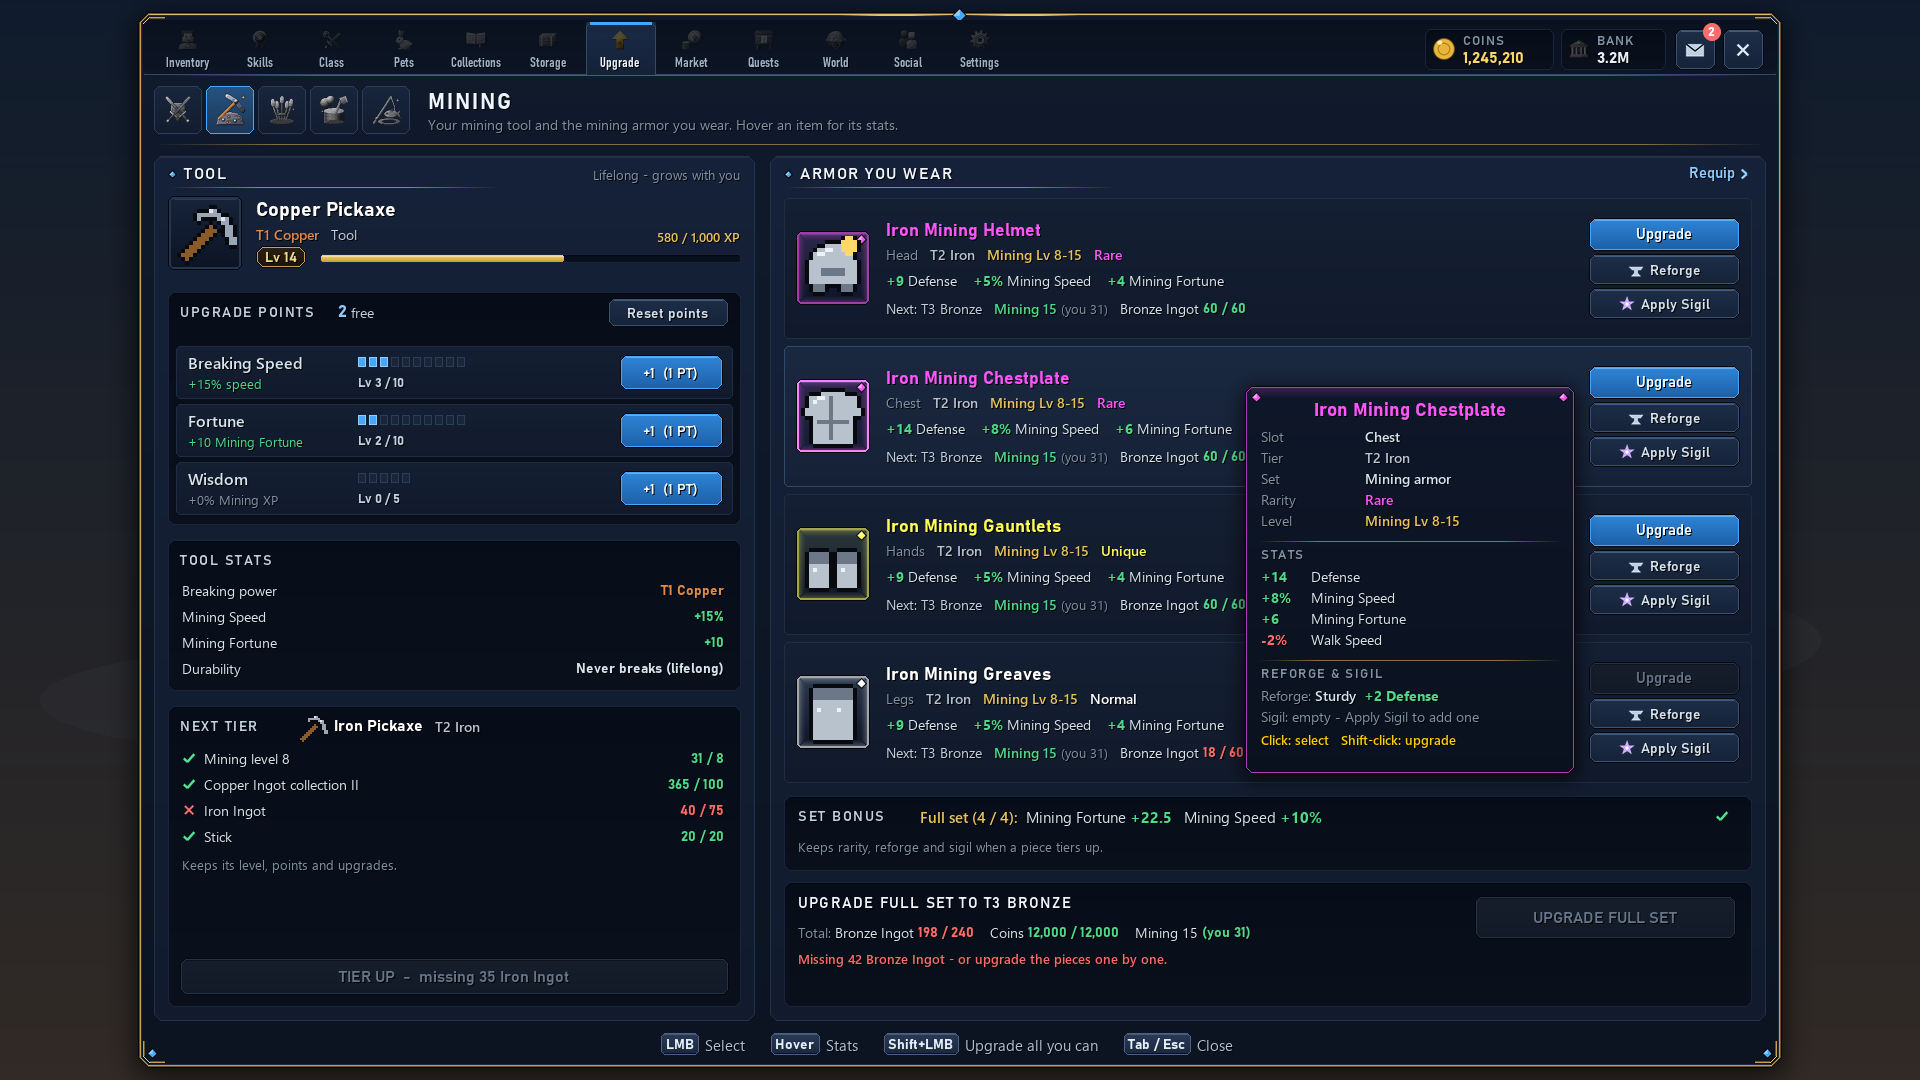
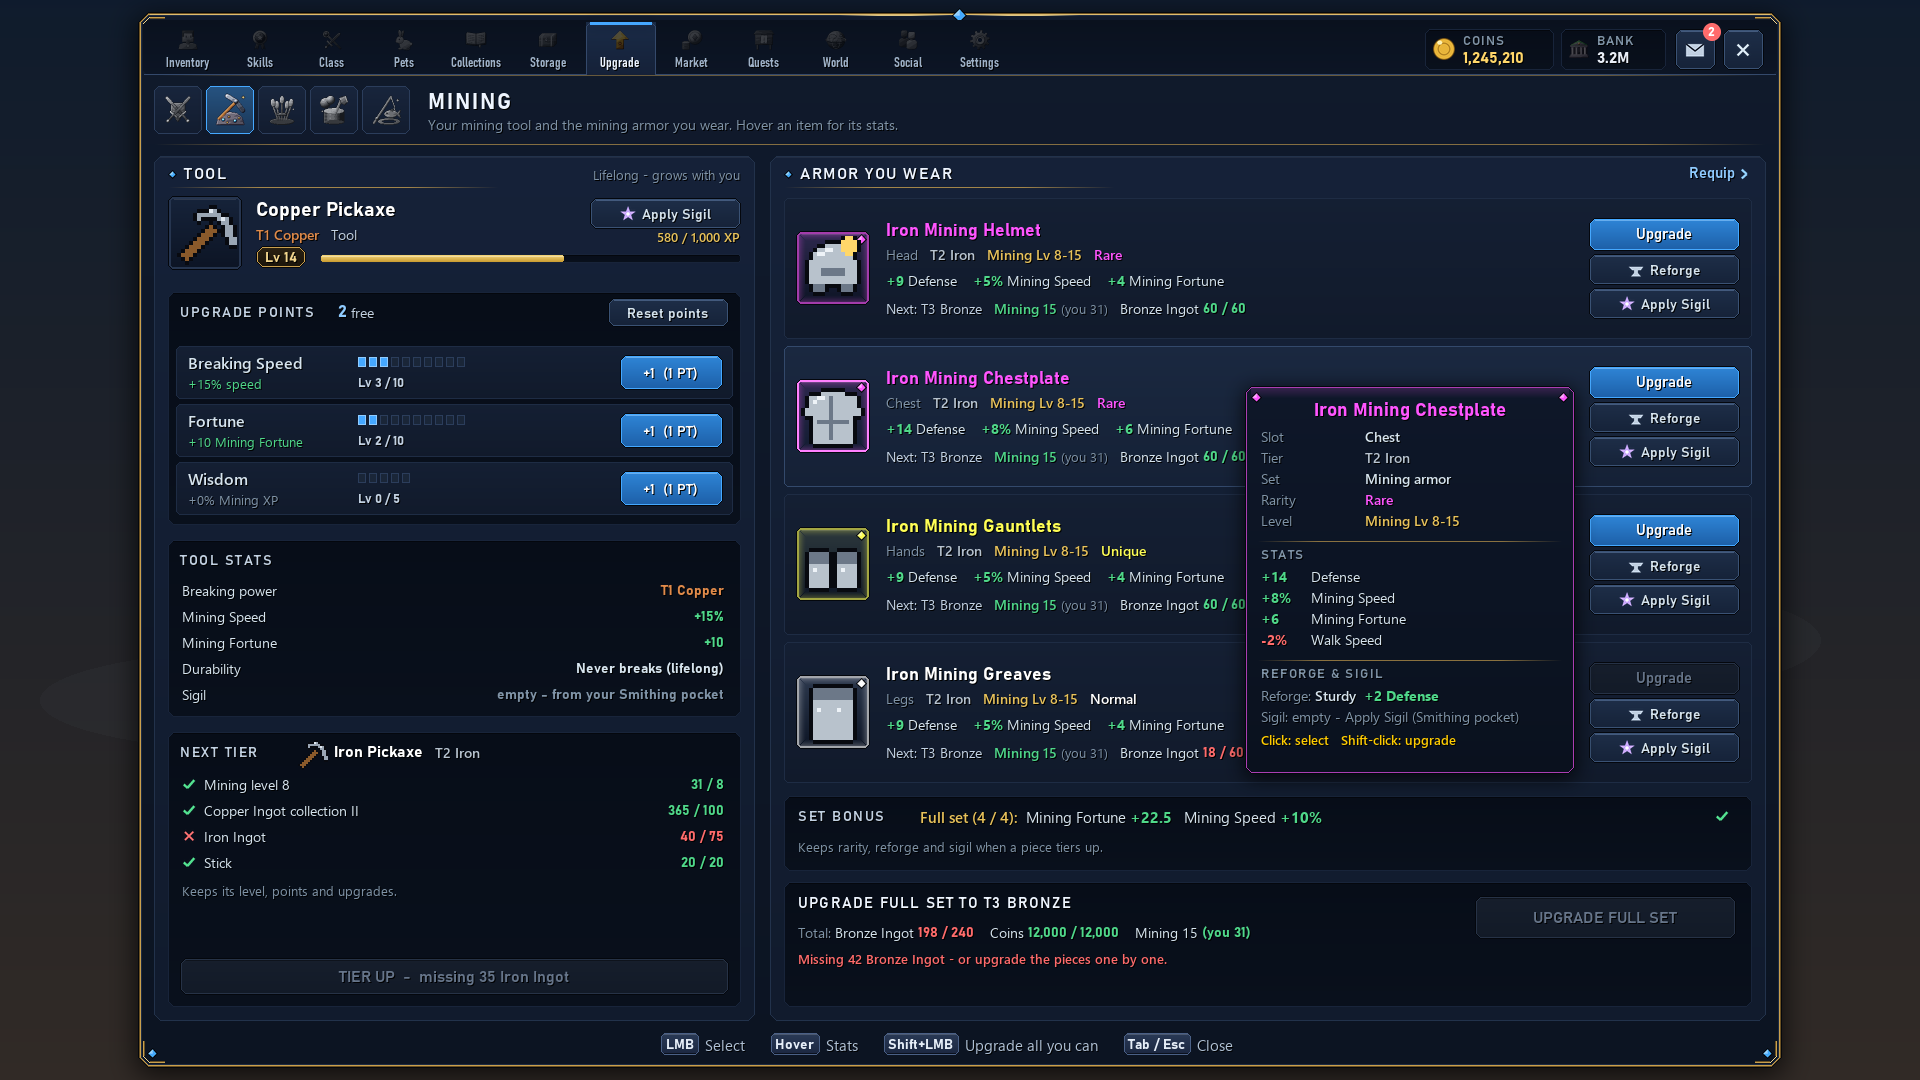
art: v5 Furnace fuel slot + search, Apply Sigil on the tool; egg upgrade-by-rarity recorded

Changed region(s): [[0.0938, 0.6417, 0.4062, 0.825], [0.3125, 0.1833, 0.375, 0.2139], [0.75, 0.6417, 0.7812, 0.6722]]

diff --git a/research/ui-theme-art/make_ui_theme.py b/research/ui-theme-art/make_ui_theme.py
@@ -1954,6 +1954,9 @@ def pocket_v3(im, X0, X1, Y0, Y1):
 BENCH4 = BENCH3 + BENCH4_EXTRA   # v4: + Furnace / Cooking / Tanning (Skyy 11-14 "yes")
 
 
+V5 = True   # v5 (Skyy 11-14): Furnace fuel slot + search above Copper; Apply Sigil on the tool. False = the kept v4 pictures.
+
+
 def furnace_v4(im, X0, X1, Y0, Y1):
     """The Furnace tab of inventory crafting in OUR pack's style (SkyySacks furnace: fuel, timed queue, Furnace Charm)."""
     craft_v3(im, X0, X1, Y0, Y1, True, 6)
@@ -1963,7 +1966,8 @@ def furnace_v4(im, X0, X1, Y0, Y1):
     put(im, g_diamond(9, A["base"], A["hi"]), X0 + 14, hy - 4)
     text(im, (X0 + 30, hy), "FURNACE", font("head", 17), PAL["title"], "lm", track=1.5)
     text(im, (X0 + 30 + tw("FURNACE", font("head", 17), 1.5) + 10, hy + 1), "ingots first, by tier", font("body", 13), PAL["dim"], "lm")
-    search_box(im, (X1 - 300, hy - 15, X1 - 12, hy + 15), "Search...")
+    if not V5:
+        search_box(im, (X1 - 300, hy - 15, X1 - 12, hy + 15), "Search...")
     taper_line(im, X0 + 12, X1 - 12, hy + 22, PAL["gold"], 150, 0.8)
     cy0, cy1 = hy + 32, Y1 - 12
     # --- list of smeltables
@@ -1972,6 +1976,9 @@ def furnace_v4(im, X0, X1, Y0, Y1):
     items = [("Copper Ingot", "T1", "#d0803c", "1,792"), ("Iron Ingot", "T2", "#b8c2cc", "1,262"), ("Bronze Ingot", "T3", "#c99a4a", "0"),
              ("Thorium Ingot", "T4", "#7fc46a", "86"), ("Charcoal", "", "", "640"), ("Glass", "", "", "512")]
     y = cy0 + 6
+    if V5:   # Skyy 11-14: "move the search to the top of the metal row, above coper"
+        search_box(im, (lx0 + 6, y, lx1 - 6, y + 30), "Search...")
+        y += 38
     for i, (nm, t_, c_, have) in enumerate(items):
         row(im, (lx0 + 6, y, lx1 - 6, y + 34), "selected" if i == 1 else "normal")
         pic = "px:ingot:" + c_ if c_ else ("px:coal" if nm == "Charcoal" else "px:planks")
@@ -1993,11 +2000,20 @@ def furnace_v4(im, X0, X1, Y0, Y1):
     text(im, (rx0 + 48, cy0 + 90), "Iron Ore", font("body", 14), PAL["row"], "lm")
     text(im, (rx1 - 10, cy0 + 90), "1,262 / 688", font("headb", 14), PAL["green"], "rm")
     text(im, (rx0 + 48, cy0 + 108), "bag 12 + Void 1,250", font("body", 13), PAL["dim"], "lm")
-    paste_icon(im, "px:coal", rx0 + 10, cy0 + 124, 32)
-    text(im, (rx0 + 48, cy0 + 132), "Fuel: Charcoal", font("body", 14), PAL["row"], "lm")
-    text(im, (rx1 - 10, cy0 + 132), "640 / 86", font("headb", 14), PAL["green"], "rm")
-    text(im, (rx0 + 48, cy0 + 150), "1 per 8 smelts  -  Change", font("body", 13), PAL["dim"], "lm")
-    ay = cy0 + 170
+    if V5:   # Skyy 11-14: "i donty see how you add the fuel" -> a real FUEL slot: drag fuel in (or click it to pick from bag + Void)
+        text(im, (rx0 + 10, cy0 + 124), "FUEL", font("head", 13), PAL["dim"], "lm", track=1.5)
+        text(im, (rx1 - 10, cy0 + 124), "needs 86", font("headb", 13), PAL["green"], "rm")
+        slot(im, rx0 + 10, cy0 + 136, "hover", None, "px:coal", "640", size=48)
+        text(im, (rx0 + 68, cy0 + 146), "Charcoal  x640", font("bodyb", 14), PAL["row"], "lm")
+        text(im, (rx0 + 68, cy0 + 164), "Drag fuel in, or click", font("body", 13), A["hi"], "lm")
+        text(im, (rx0 + 68, cy0 + 180), "1 per 8 smelts", font("body", 13), PAL["dim"], "lm")
+        ay = cy0 + 198
+    else:
+        paste_icon(im, "px:coal", rx0 + 10, cy0 + 124, 32)
+        text(im, (rx0 + 48, cy0 + 132), "Fuel: Charcoal", font("body", 14), PAL["row"], "lm")
+        text(im, (rx1 - 10, cy0 + 132), "640 / 86", font("headb", 14), PAL["green"], "rm")
+        text(im, (rx0 + 48, cy0 + 150), "1 per 8 smelts  -  Change", font("body", 13), PAL["dim"], "lm")
+        ay = cy0 + 170
     bw = (rx1 - rx0 - 20 - 8) // 3
     for j, lab in enumerate(("1", "x10", "All")):
         bx = rx0 + 10 + j * (bw + 4)
@@ -2537,6 +2553,8 @@ def make_upgrade():
     rich(im, tx + 88, ty + 38, [("T1 Copper", font("bodyb", 14), "#e08a4a"), ("   Tool", font("body", 14), PAL["text"])])
     level_pill(im, tx + 88, ty + 50, "Lv 14")
     bar(im, (tx + 152, ty + 58, TX1 - 14, ty + 66), 0.58, "xp")
+    if V5:   # Skyy 11-14: "the pickaxe needs an apply sigils button too"
+        button(im, (TX1 - 14 - 150, ty + 2, TX1 - 14, ty + 32), "Apply Sigil", "secondary", fsize=14, glyph=g_sigil(16))
     text(im, (TX1 - 14, ty + 46), "580 / 1,000 XP", font("bodyb", 13), PAL["xp"], "rs")
     # points
     uy = ty + 96
@@ -2556,14 +2574,17 @@ def make_upgrade():
         ry += 58
     # tool stats
     sy0 = uy + 248
-    panel(im, (tx, sy0, TX1 - 14, sy0 + 150), inset=True, c=5)
+    panel(im, (tx, sy0, TX1 - 14, sy0 + (176 if V5 else 150)), inset=True, c=5)
     text(im, (tx + 12, sy0 + 20), "TOOL STATS", font("head", 14), PAL["text"], "lm", track=1.5)
-    for j, (k_, v_, c_) in enumerate((("Breaking power", "T1 Copper", "#e08a4a"), ("Mining Speed", "+15%", PAL["green"]),
-                                      ("Mining Fortune", "+10", PAL["green"]), ("Durability", "Never breaks (lifelong)", PAL["row"]))):
+    st_rows = [("Breaking power", "T1 Copper", "#e08a4a"), ("Mining Speed", "+15%", PAL["green"]),
+               ("Mining Fortune", "+10", PAL["green"]), ("Durability", "Never breaks (lifelong)", PAL["row"])]
+    if V5:
+        st_rows.append(("Sigil", "empty - from your Smithing pocket", PAL["dim"]))
+    for j, (k_, v_, c_) in enumerate(st_rows):
         text(im, (tx + 14, sy0 + 50 + j * 26), k_, font("body", 14), PAL["row"], "lm")
         text(im, (TX1 - 30, sy0 + 50 + j * 26), v_, font("headb", 14), c_, "rm")
     # next tier
-    ny = sy0 + 166
+    ny = sy0 + (192 if V5 else 166)
     panel(im, (tx, ny, TX1 - 14, CY1 - 14), inset=True, c=5)
     text(im, (tx + 12, ny + 20), "NEXT TIER", font("head", 14), PAL["text"], "lm", track=1.5)
     put_px(im, px_icon("pickaxe"), tx + 128, ny + 6, 32)
@@ -2634,7 +2655,7 @@ def make_upgrade():
              [("+14", "Defense", True), ("+8%", "Mining Speed", True), ("+6", "Mining Fortune", True), ("-2%", "Walk Speed", False)],
              [[("Reforge: ", font("body", 14), PAL["dim"]), ("Sturdy", font("bodyb", 14), PAL["row"]),
                ("  +2 Defense", font("bold", 14), PAL["green"])],
-              [("Sigil: ", font("body", 14), PAL["dim"]), ("empty - Apply Sigil to add one", font("body", 14), PAL["dim"])]],
+              [("Sigil: ", font("body", 14), PAL["dim"]), ("empty - Apply Sigil (Smithing pocket)" if V5 else "empty - Apply Sigil to add one", font("body", 14), PAL["dim"])]],
              [("Click: select   Shift-click: upgrade", PAL["action"])])
     # key hints
     hy2 = 1044
@@ -3264,6 +3285,15 @@ def make_accents():
     return im
 
 
+def _v4(fn):
+    global V5
+    V5 = False
+    try:
+        return fn()
+    finally:
+        V5 = True
+
+
 def main():
     out = {"theme-sheet.png": make_sheet, "inventory-mockup-v1.png": make_mockup_v1,
            "inventory-mockup-v2.png": lambda: make_mockup("craft"), "inventory-mockup-mining-v2.png": lambda: make_mockup("mining"),
@@ -3273,7 +3303,9 @@ def main():
            "inventory-mockup-mining.png": lambda: make_mockup_v3("mining", True),
            "inventory-mockup-chest.png": lambda: make_mockup_v3("chest", True),
            "inventory-mockup-furnace.png": lambda: make_mockup_v3("furnace", True),
-           "upgrade-mockup.png": make_upgrade, "hud-editor-mockup.png": make_hud_editor, "hud-editor-mockup-v4.png": lambda: make_hud_editor(False),
+           "upgrade-mockup.png": make_upgrade,
+           "upgrade-mockup-v4.png": lambda: _v4(make_upgrade),
+           "inventory-mockup-furnace-v4.png": lambda: _v4(lambda: make_mockup_v3("furnace", True)), "hud-editor-mockup.png": make_hud_editor, "hud-editor-mockup-v4.png": lambda: make_hud_editor(False),
            "accent-options.png": make_accents}
     only = sys.argv[1:]
     for fn, maker in out.items():

diff --git a/docs/answered/ui.md b/docs/answered/ui.md
@@ -204,3 +204,4 @@ New answers go in the 'New answers' block at the end and leave OPEN-QUESTIONS.md
 - 2026-11-14 HUD EDITOR (Skyy, screenshot of Runeteria's HUD layout editor): "and lets try to make our hud editor look and work like theirs." -> what the screenshot shows (ideas only, no art copied): every HUD widget visible at once with thin corner-bracket outlines (player frame with portrait / level / XP, target frame, party list with health bars, buff icons with timers, milestone toast, compass + objective arrow + distance, zone title with recommended level, notification stack, world event, quest tracker, achievements, recent loot, ability bar with keys + HP / mana bars, full-width XP bar), a vertical + horizontal centre guide line, drag a widget to move it. -> our SkyyHud layout editor gets that look + drag-to-move in phase P7 (research/Inventory-Screen-Plan.md); in the theme art next.
 - 2026-11-14 PROCESSING STATIONS (Skyy, on the default 'Furnace, Cooking and Tanning become bench tabs in inventory crafting'): "yes" + "but furnace and tanning will have a custom look and work more like they do in our pack than they do in vanilla" -> Furnace, Cooking, Tanning = tabs in inventory crafting; the Furnace and Tanning tabs keep OUR pack's behaviour (timed queue with Collect, All / x10, ingots first by tier, Void + bag stock) in the custom theme, not the vanilla processing window.
 - 2026-11-14 HUD EDITOR v4 REVIEW (Skyy, on research/ui-theme-art/hud-editor-mockup.png): "the game already has a compass, so if we do anything thewre it has to be below ithe vanilla one, or a mod to the vanilla one. try to keep things out of the center of the screen put pets to the left of the hot bar and mount to the right." -> HUD layout v5: no compass of ours (the vanilla compass stays top-centre; anything of ours goes BELOW it or modifies it); keep the centre of the screen clear (zone title / Skill XP popup move off the middle); pet card LEFT of the hotbar, mount card RIGHT of the hotbar.
+- 2026-11-14 FURNACE + UPGRADE v4 REVIEW (Skyy, on inventory-mockup-furnace.png + upgrade-mockup.png): "i donty see how you add the fuel. and move the search to the top of the metal row, above coper." + "the pickaxe needs an apply sigils button too. sigils should go in the pocket dimension in the smithing bag." -> art v5: the Furnace recipe panel has a real FUEL slot (drag fuel in, or click it to pick from bag + Void; shows count and "needs N"); the search box sits at the top of the ingot list above Copper; the tool card has its own Apply Sigil button and a Sigil row in Tool stats; sigils are stored in the Smithing pocket (pocket dimension) and Apply Sigil picks from there.

diff --git a/docs/answered/pets.md b/docs/answered/pets.md
@@ -81,3 +81,4 @@ New answers go in the 'New answers' block at the end and leave OPEN-QUESTIONS.md
 - 2026-11-08 (Skyy): "riding the horse and dragon is buggy" -> log 07-22-46: 7 SEVERE [RoleChangeSystem] Failed to change role: Archetype doesn't contain ComponentType (the entity has NPCMountComponent; the missing one named is Interactable), each followed by "[Pets] Your Horse could not carry you - press F on it again". Pets round tag ride2.
 - 2026-11-08 (Skyy): "and make the dragon follow at a further distance, or fly around you unless its attacking mobs. cause it gets in the way. and have the dragon target mobs aggressively" -> summoned dragon keeps out of the way (circles above / around the owner when not fighting) and picks fights with nearby hostile mobs on its own.
 - 2026-11-14 PET SLOT vs MOUNT SLOT CHANGE (Skyy): "you have a pet slot, and a mount slot. the mount slot if for riding, i want to summon it with a button or hot key, (or put it in the off hand bar you pop up by holding Z like in the runtaria server.) when you summon the mount it puts you on it, and when you hop off it vanishes. pets equipped in the pet slot flow around you like normal. combat pets will attack when in pet slot. (pets that are all 3 like the dragon will stay around and fight in the pet slot, and just summon in the mount slot" -> REPLACES the 2026-10-10 summon-slot rule: the second slot = MOUNT slot, for riding only; summon it with a button / key (default: a summon button on the HUD mount card + an entry in the Z off-hand bar once the inventory screen has it) -> it spawns under you and seats you; hop off = it vanishes. PET slot: the pet follows you as today; COMBAT (fighter) pets now ATTACK from the pet slot. Pets that are pet + fighter + mount (dragons) follow and fight in the pet slot, and are only summoned to ride in the mount slot. [default for open points: mount-slot buff share stays 50%; summoning has a short cooldown] - SkyyPets round (queued, RESUME).
+- 2026-11-14 EGG CRAFTING -> UPGRADE BY RARITY (Skyy, screenshot of Pets > Eggs listing Common and Uncommon eggs as separate crafts): "lets adjust this, so you make the common ones, then have to upgrade to the next rarify, instead oof just crafting the higher rarity." -> only COMMON eggs are crafted; every higher rarity egg is made by UPGRADING an egg of the rarity below (that egg + materials), never crafted from scratch. [default: the upgrade cost = today's higher-rarity recipe minus the plain Egg, same family] - SkyyPets round (queued, RESUME 0a).

diff --git a/research/ui-theme-art/README.md b/research/ui-theme-art/README.md
@@ -13,6 +13,15 @@ Skyy's words behind it (docs/answered/ui.md):
 
 Runeteria's screen gave the ideas only. Its art, colours and layout details were not copied.
 
+## v5 Furnace + Upgrade (2026-11-14)
+Skyy: "i donty see how you add the fuel. and move the search to the top of the metal row, above coper." + "the pickaxe needs an apply
+sigils button too. sigils should go in the pocket dimension in the smithing bag."
+- **`inventory-mockup-furnace.png`:** a real FUEL slot (drag fuel in, or click it to pick fuel from bag + Void; count + "needs 86"); the
+  search box is at the top of the ingot list, above Copper.
+- **`upgrade-mockup.png`:** the pickaxe card has its own Apply Sigil button, and Tool stats shows its Sigil row. Sigils live in the
+  Smithing pocket; every Apply Sigil picks from there.
+- v4 pictures kept as `inventory-mockup-furnace-v4.png` and `upgrade-mockup-v4.png` (generator flag `V5`).
+
 ## v5 HUD (2026-11-14, Skyy's review of the HUD editor)
 Skyy: "the game already has a compass, so if we do anything thewre it has to be below ithe vanilla one, or a mod to the vanilla one. try to
 keep things out of the center of the screen put pets to the left of the hot bar and mount to the right."
@@ -160,7 +169,7 @@ What changed:
   - **Utility** = the other utility-section items you can swap to with the off-hand key.
   - **Tool** = our tool slot (the Multitool / tool fetch). That one is a proposal; see the open questions.
 - **Inventory crafting now uses the VANILLA crafting layout,** drawn in our colours. I read only the layout and sizes from
-  `Client/.../Pages/Inventory/BasicCraftingPanel.ui`, `BasicCraftingIngredient.ui` and `Common/Container.ui`; no pixels were copied.
+  the game's BasicCraftingPanel, BasicCraftingIngredient and Container .ui files (inside Assets.zip); no pixels were copied.
   - Icon-only bench tabs sit on the panel's top edge. Vanilla's are 82 x 62 with a 44 icon; ours are 72 x 52 with a 36 icon.
   - The title reads "CRAFTING > Default", like vanilla's category arrow.
   - Search and the Craftable-only toggle sit in the header.

diff --git a/RESUME.md b/RESUME.md
@@ -35,7 +35,7 @@ Leftover local jobs (beta bugs): `LOCAL-RESUME.md`. Older RESUME detail: git his
 - After Skyy plays: skill `skywynn-logs` + the SHARED-EXECUTOR check (SackBeat 'shared scheduler stalls' + 'tick max').
 
 ## NEXT (in order; Gear / Mobs rounds one at a time; launch with Workflow `skywynn-round`, Skyy's own words in quotes)
-0a. PETS round (Skyy 11-14, docs/answered/pets.md): mount slot = ride only (summon -> seats you, hop off -> vanishes; summon button on the HUD mount card / key / Z bar later); combat pets FIGHT from the pet slot; dragons fight in the pet slot, ride from the mount slot. Replaces the 10-10 summon-slot rule. HUD v5: pet card left of the hotbar, mount right, nothing of ours on the vanilla compass (only below it), centre clear.
+0a. PETS round (Skyy 11-14, docs/answered/pets.md): mount slot = ride only (summon -> seats you, hop off -> vanishes; summon button on the HUD mount card / key / Z bar later); combat pets FIGHT from the pet slot; dragons fight in the pet slot, ride from the mount slot. Replaces the 10-10 summon-slot rule. EGGS: craft Common only; each higher rarity = upgrade the egg below + materials. HUD v5: pet card left of the hotbar, mount right, nothing of ours on the vanilla compass (only below it), centre clear.
 0. From 11-08: next Bazaar rebuild MUST move the 18 Enchanted metals from its Mining tab to Smithing (it asserts BAG_OF == EN.cat_of against the pinned Sacks). Trees 0.6.8: DefaultOk on the sickle Replace (Skyy_Tree_HarvR_HE SEVERE, docs/log 11-08). Armory ArmoryCheck one-shot boot check needs the same retry as Skills PACK_MAX. Economy check: Bazaar Enchanted sell price vs 100x base, for compressed shard stock. Gear SX_PACK row for DualRuneBlade (The Armory 1.25.1 removed its Ability 1).
 1. sig3b Gear half: Weapon_Staff_Doomed into ut_vanilla LOOKS, sig.ut defaults (Paperweight -20, Ricochet +25), C+ charge rules, orange
    signature names, gear:fn:elemPower (apply(UUID) -> "Earth:0,Thunder:3,...", Menu 0.3.49 already reads it), GearPool.leanHit full-family fix

diff --git a/docs/log/2026-11.md b/docs/log/2026-11.md
@@ -64,3 +64,4 @@
 - 2026-11-14 -0600: ART P0b v3 committed (inventory-mockup / -mining / -chest: Runeteria-style crafting with bench icon tabs (no charms / pets / fishing), compact Skills grid, quests in Right now, icon header buttons, teleport mini hotbar, off-hand slots, chest view); Skyy's voice review transcribed offline with Vosk (research/ui-theme-art/skyy-review-1114.md). IDEA: Requip rework on the new screen.
 - 2026-11-14 -0600: ART P0b v4 committed (research/ui-theme-art/: Requip presets in the character header, Upgrade tab replaces Crafting (upgrade-mockup: tool card + points + tier up, armor pieces with Upgrade / Reforge / Apply Sigil, full set), Furnace tab in our pack style, HUD editor like Runeteria's (brackets, centre guides, drag + snap)). Waiting on Skyy's approval.
 - 2026-11-14 -0600: ART HUD v5 committed (hud-editor-mockup.png: vanilla compass kept, quest strip below it, centre clear, Skill XP popup dragged out of the centre, pet card left / mount card right of the hotbar; v4 kept as hud-editor-mockup-v4.png). Skyy's pet / mount slot change recorded (docs/answered/pets.md) and queued as RESUME NEXT 0a.
+- 2026-11-14 -0600: ART v5 Furnace + Upgrade committed (fuel slot, search above Copper, Apply Sigil on the tool, sigils in the Smithing pocket; v4 pictures kept). Skyy's egg change recorded (craft Common only, upgrade to each higher rarity; docs/answered/pets.md, RESUME 0a).
